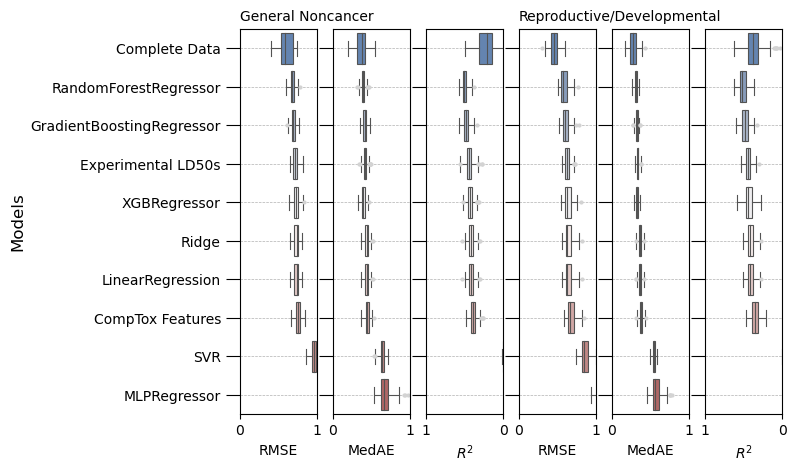
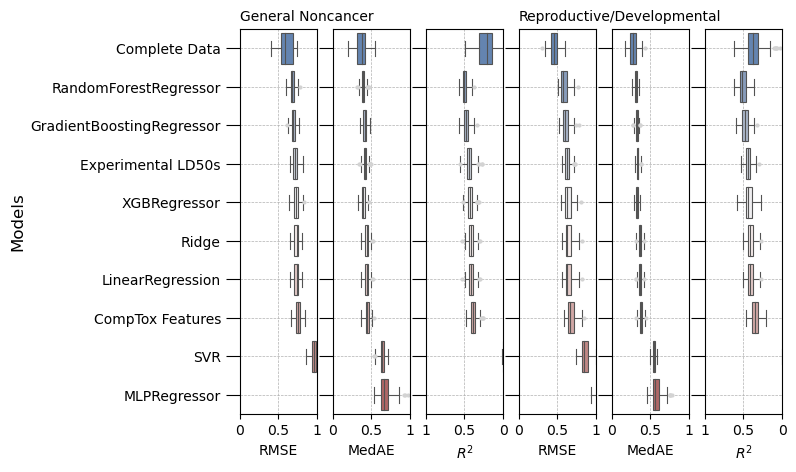
Set more ticklabels in sensitivity analysis plot

diff --git a/plot.py b/plot.py
@@ -815,7 +815,8 @@ def _set_axis_limit(
         metric, 
         limit_values=(0., 1.), 
         reverse_metric='r2_score', 
-        orientation='x'
+        orientation='x',
+        num_ticks=3
         ):
     '''
     Set the axis limits of a given axis. If the metric matches the reverse_metric,
@@ -828,8 +829,10 @@ def _set_axis_limit(
 
     if orientation == 'x':
         ax.set_xlim(limits)
+        ax.set_xticks(np.linspace(limits[0], limits[1], num_ticks))
     elif orientation == 'y':
         ax.set_ylim(limits)
+        ax.set_yticks(np.linspace(limits[0], limits[1], num_ticks))
 #endregion
 
 #region: out_of_sample_prediction_scatterplots
@@ -1239,8 +1242,8 @@ def sensitivity_analysis_boxplots(
         
         df_wide_new = pd.DataFrame(index=df_wide.index)
 
+        ## Rename the columns based on the mapping
         for col in df_wide.columns:
-            # Rename the column based on the mapping
             new_col_name = label_for_model.get(col[:-1], None)
             if new_col_name:
                 metric = col[-1]
@@ -1265,12 +1268,18 @@ def sensitivity_analysis_boxplots(
             start=start,
             palette='vlag',
         )
-        
+                  
         title = plot_settings.label_for_effect[effect]
         axs[start].set_title(title, loc='left', fontsize=10)
         
         # Update the start column index
         start += n_evaluation_labels
+
+    for ax in axs:
+        ax.set_xticklabels(
+            [_format_tick_label(label.get_text()) 
+             for label in ax.get_xticklabels()]
+             )  # avoids overlapping ticklabels
 
     save_figure(
         fig, 
@@ -1278,6 +1287,29 @@ def sensitivity_analysis_boxplots(
         'performances-without-selection',
         bbox_inches='tight'
         )
+#endregion
+
+#region: _format_tick_label
+def _format_tick_label(label_text):
+    '''
+    Format a tick label to have one significant digit of precision.
+
+    Parameters
+    ----------
+    label_text : str
+        The label text to be formatted.
+
+    Returns
+    -------
+    str
+        The formatted label text with one significant digit. If the input 
+        cannot be converted to a float (e.g., an empty string), it returns 
+        the input unchanged.
+    '''
+    try:
+        return "{:.1g}".format(float(label_text))
+    except ValueError:
+        return label_text
 #endregion
 
 #region: benchmarking_scatterplots
